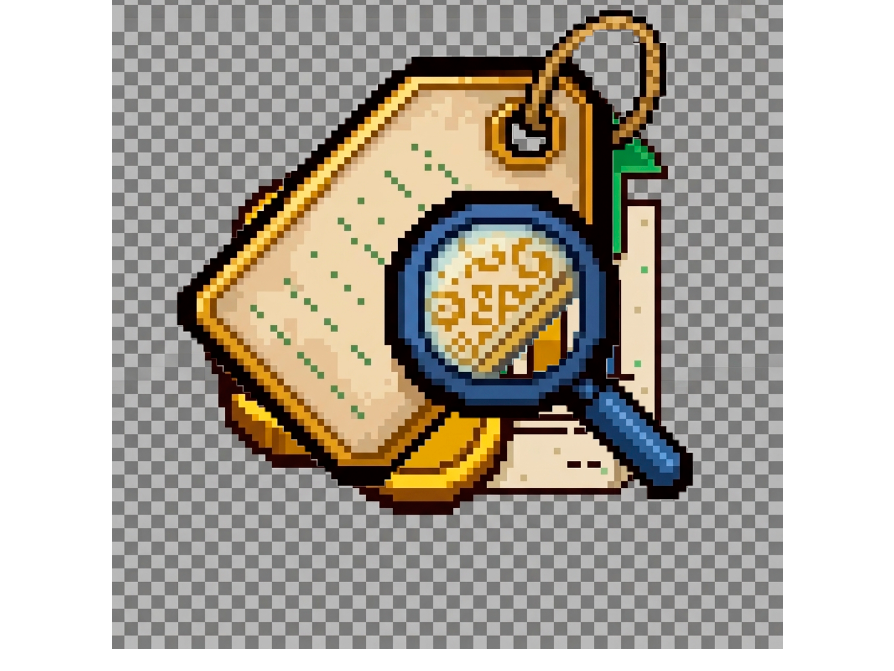
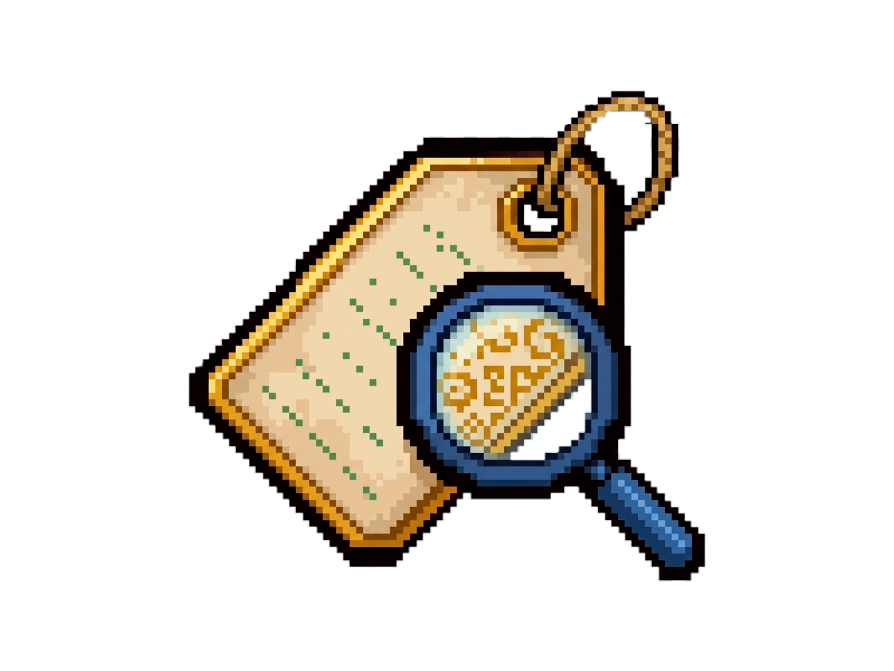
filtros adicionas de shiny

diff --git a/loja.html b/loja.html
@@ -360,7 +360,12 @@
     </select>
     <details class="filter-more">
       <summary>MAIS FILTROS</summary>
-      <div><input type="text" id="qualFilter" inputmode="decimal" placeholder="Qualidade mínima (ex: 1,70)" aria-label="Qualidade mínima"></div>
+      <div class="filter-extra-grid">
+        <input type="text" id="qualFilter" inputmode="decimal" placeholder="Qualidade mínima (ex: 1,70)" aria-label="Qualidade mínima">
+        <select id="shinyFilter" aria-label="Filtrar por shiny"><option value="">shiny ou normal</option><option value="shiny">somente shiny</option><option value="normal">somente não shiny</option></select>
+        <input type="number" id="priceMinFilter" min="0" step="0.5" inputmode="decimal" placeholder="Valor mínimo (R$)" aria-label="Valor mínimo">
+        <input type="number" id="priceMaxFilter" min="0" step="0.5" inputmode="decimal" placeholder="Valor máximo (R$)" aria-label="Valor máximo">
+      </div>
     </details>
   </div>
 
@@ -862,6 +867,9 @@ function render(){
   var ivMin = parseFloat($('ivFilter').value) || 0;
   var qualMin = parseFloat(String($('qualFilter').value||'').replace(',','.')) || 0;
   var tierFiltro = $('tierFilter').value;
+  var shinyFiltro = $('shinyFilter').value;
+  var precoMinFiltro = parseFloat($('priceMinFilter').value) || 0;
+  var precoMaxFiltro = parseFloat($('priceMaxFilter').value) || 0;
 
   var itens = lista.filter(function(p){
     return p.status === 'aprovado' && p.disponivel !== false &&
@@ -874,6 +882,9 @@ function render(){
   if(ivMin) itens = itens.filter(function(p){ return (Number(p.iv)||0) >= ivMin; });
   if(qualMin) itens = itens.filter(function(p){ return (parseFloat(String(p.qualidade).replace(',','.'))||0) >= qualMin; });
   if(tierFiltro) itens = itens.filter(function(p){ return qualityTier(p.qualidade).cls === 'tier-'+tierFiltro; });
+  if(shinyFiltro) itens = itens.filter(function(p){ return shinyFiltro==='shiny' ? p.shiny===true : p.shiny!==true; });
+  if(precoMinFiltro) itens = itens.filter(function(p){ return Number(p.preco)>=precoMinFiltro; });
+  if(precoMaxFiltro) itens = itens.filter(function(p){ return Number(p.preco)<=precoMaxFiltro; });
 
   if(ordem==='priceAsc') itens.sort(function(a,b){ return a.preco-b.preco; });
   else if(ordem==='priceDesc') itens.sort(function(a,b){ return b.preco-a.preco; });
@@ -885,7 +896,7 @@ function render(){
     $('grid').innerHTML = '<div class="empty">' +
       (aba === 'jogadores'
         ? 'Ainda não tem anúncio de jogador aqui. 🧑<br>Seja o primeiro — anuncie o teu de graça.<br><br><a href="#" onclick="abrirPainel();return false;">quero anunciar →</a>'
-        : (termo || ivMin || qualMin || tierFiltro
+        : (termo || ivMin || qualMin || tierFiltro || shinyFiltro || precoMinFiltro || precoMaxFiltro
             ? 'Nenhum Pokémon com esses filtros.'
             : 'Nenhum Pokémon à venda no momento.<br>Me chama no WhatsApp que eu te aviso quando entrar algo — ou encomendo o que você procura.<br><br>' +
               '<a href="'+waLink('Olá! Vi que a vitrine do PokeCentral está vazia. Estou procurando um Pokémon específico, dá pra encomendar?')+'" target="_blank" rel="noopener">falar no WhatsApp →</a>')) +
@@ -926,7 +937,7 @@ function render(){
 }
 
 function resetRender(){ mostrados = PAGINA; render(); }
-['search','sortSel','ivFilter','qualFilter','tierFilter'].forEach(function(id){ $(id).addEventListener('input', resetRender); });
+['search','sortSel','ivFilter','qualFilter','tierFilter','shinyFilter','priceMinFilter','priceMaxFilter'].forEach(function(id){ $(id).addEventListener('input', resetRender); });
 
 document.querySelectorAll('.shop-tab').forEach(function(b){
   b.addEventListener('click', function(){
@@ -1876,9 +1887,13 @@ function shinyPedido(v){ return v==='obrigatorio'?'Shiny obrigatório':(v==='nao
 function renderPedidos(){
   var termo=($('search').value||'').toLowerCase(), ivMin=parseFloat($('ivFilter').value)||0;
   var qualMin=parseFloat(String($('qualFilter').value||'').replace(',','.'))||0;
+  var shinyFiltro=$('shinyFilter').value;
+  var precoMinFiltro=parseFloat($('priceMinFilter').value)||0, precoMaxFiltro=parseFloat($('priceMaxFilter').value)||0;
   var itens=pedidos.filter(pedidoPublico).filter(function(p){
+    var shinyOk=!shinyFiltro || (shinyFiltro==='shiny' ? p.shiny==='obrigatorio' : p.shiny==='nao');
     return (!termo || String(p.pokemon_nome||'').toLowerCase().indexOf(termo)>=0 || String(p.comprador_nome||'').toLowerCase().indexOf(termo)>=0)
-      && (!ivMin || Number(p.iv_min)>=ivMin) && (!qualMin || Number(p.qualidade_min)>=qualMin);
+      && (!ivMin || Number(p.iv_min)>=ivMin) && (!qualMin || Number(p.qualidade_min)>=qualMin)
+      && shinyOk && (!precoMinFiltro || Number(p.preco_max)>=precoMinFiltro) && (!precoMaxFiltro || Number(p.preco_max)<=precoMaxFiltro);
   });
   var ordem=$('sortSel').value;
   if(ordem==='priceAsc') itens.sort(function(a,b){return a.preco_max-b.preco_max});

diff --git a/ui-refresh.css b/ui-refresh.css
@@ -371,3 +371,22 @@ header::after{content:"●  ●  ●";position:absolute;right:28px;top:10px;colo
 @media(min-width:701px){
   .page-store .shop-tabs{grid-template-columns:repeat(3,minmax(0,1fr));}
 }
+/* Filtros extras da loja */
+.page-store .filter-more .filter-extra-grid{
+  display:grid;
+  grid-template-columns:repeat(4,minmax(0,1fr));
+  gap:8px;
+  width:100%;
+}
+.page-store .filter-extra-grid input,
+.page-store .filter-extra-grid select{
+  width:100%;
+  min-width:0;
+  box-sizing:border-box;
+}
+@media(max-width:800px){
+  .page-store .filter-more .filter-extra-grid{grid-template-columns:repeat(2,minmax(0,1fr));}
+}
+@media(max-width:480px){
+  .page-store .filter-more .filter-extra-grid{grid-template-columns:1fr;}
+}